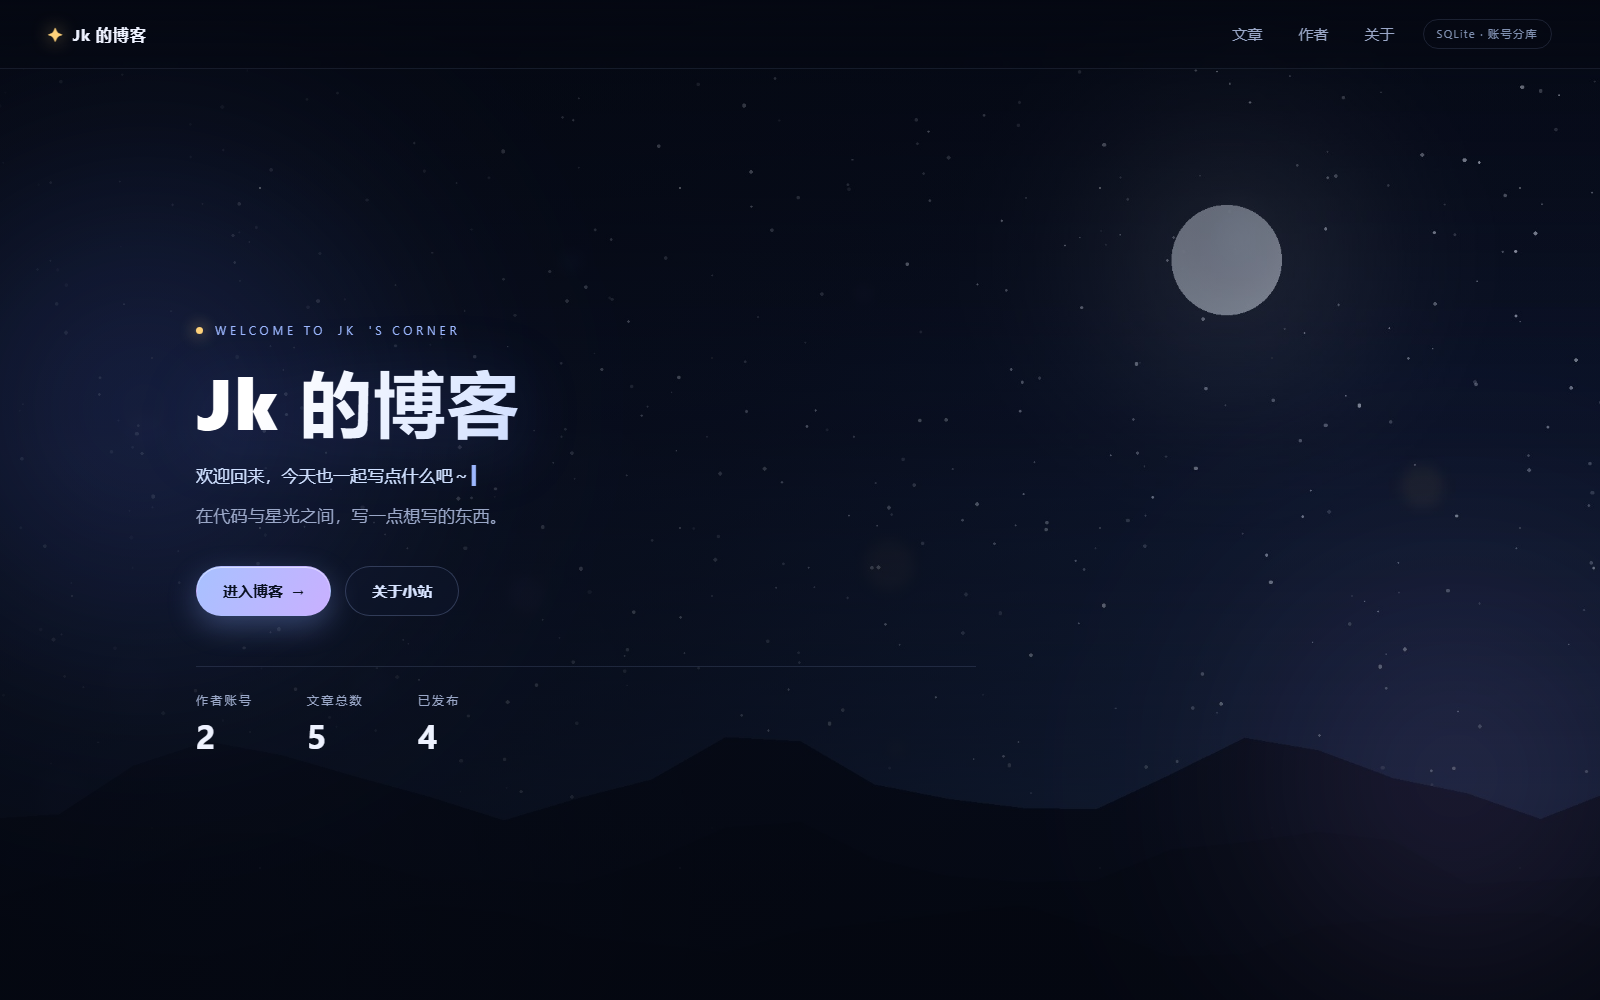
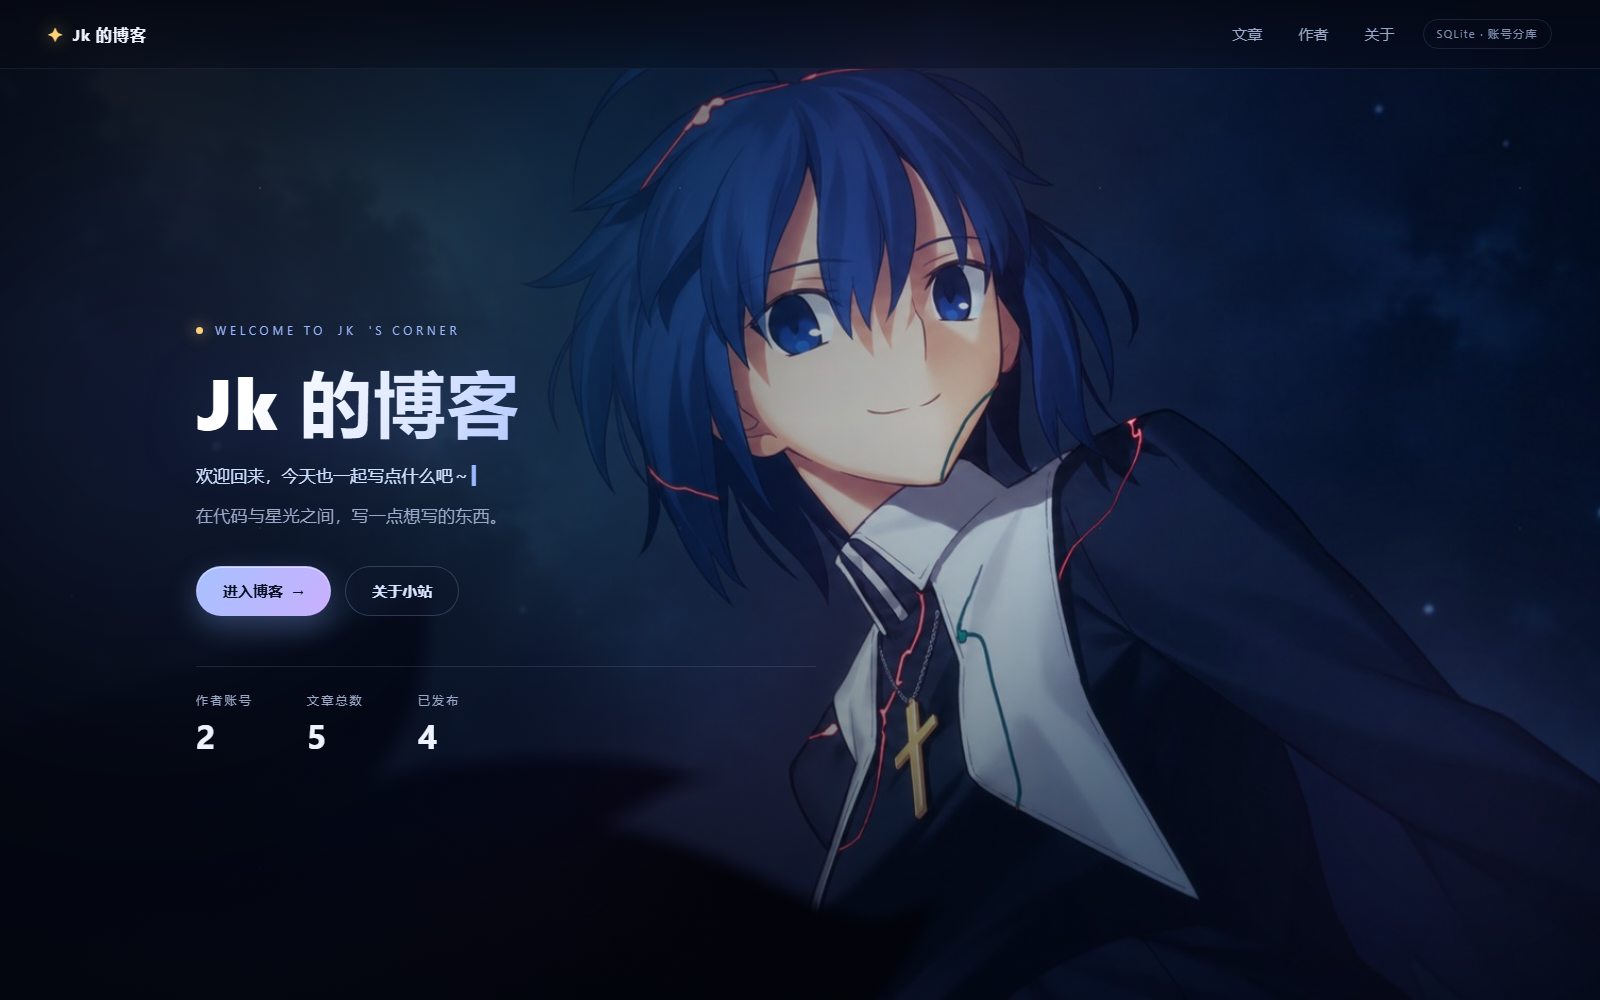
feat: 首页背景换成蓝发少女插画，新增手机竖版裁切并调整遮罩与排版

Changed region(s): [[0.1875, 0.031, 0.8125, 0.899], [0.9062, 0.279, 0.9375, 0.31], [0.9062, 0.217, 0.9375, 0.248]]

diff --git a/web/css/style.css b/web/css/style.css
@@ -121,20 +121,39 @@ img {
   inset: 0;
   background-color: #060a15;
   background-image:
-    linear-gradient(180deg, rgba(4, 7, 16, 0.42) 0%, rgba(4, 7, 16, 0.3) 38%, rgba(4, 7, 16, 0.82) 100%),
-    linear-gradient(112deg, rgba(4, 8, 18, 0.92) 0%, rgba(5, 9, 20, 0.55) 46%, rgba(5, 9, 20, 0.08) 76%),
+    linear-gradient(
+      90deg,
+      rgba(3, 6, 15, 0.94) 0%,
+      rgba(3, 6, 15, 0.86) 16%,
+      rgba(3, 6, 15, 0.56) 34%,
+      rgba(3, 6, 15, 0.22) 50%,
+      rgba(3, 6, 15, 0.04) 66%,
+      rgba(3, 6, 15, 0) 80%
+    ),
+    linear-gradient(180deg, rgba(3, 6, 15, 0.28) 0%, rgba(3, 6, 15, 0.08) 42%, rgba(3, 6, 15, 0.5) 100%),
     var(--hero-image);
   background-size: cover, cover, cover;
-  background-position: center, center, center;
+  background-position: center, center, left center;
   background-repeat: no-repeat;
 }
 
 @media (max-aspect-ratio: 4/5) {
   .scene-bg {
     background-image:
-      linear-gradient(180deg, rgba(4, 7, 16, 0.35) 0%, rgba(4, 7, 16, 0.28) 40%, rgba(4, 7, 16, 0.9) 100%),
-      linear-gradient(112deg, rgba(4, 8, 18, 0.78) 0%, rgba(5, 9, 20, 0.35) 60%, rgba(5, 9, 20, 0.1) 100%),
-      var(--hero-image);
+      linear-gradient(
+        180deg,
+        rgba(3, 6, 15, 0.05) 0%,
+        rgba(3, 6, 15, 0.12) 24%,
+        rgba(3, 6, 15, 0.4) 42%,
+        rgba(3, 6, 15, 0.78) 56%,
+        rgba(3, 6, 15, 0.93) 70%,
+        rgba(3, 6, 15, 0.98) 85%,
+        rgba(3, 6, 15, 1) 100%
+      ),
+      linear-gradient(90deg, rgba(3, 6, 15, 0.4) 0%, rgba(3, 6, 15, 0.05) 45%, rgba(3, 6, 15, 0.25) 100%),
+      url("/assets/hero-bg-mobile.jpg");
+    background-size: cover, cover, cover;
+    background-position: center, center, center;
   }
 }
 
@@ -153,7 +172,7 @@ img {
     640px 560px,
     380px 320px,
     560px 470px;
-  opacity: 0.5;
+  opacity: 0.22;
   animation: star-drift 150s linear infinite;
   -webkit-mask-image: linear-gradient(180deg, rgba(0, 0, 0, 0.95), transparent 88%);
   mask-image: linear-gradient(180deg, rgba(0, 0, 0, 0.95), transparent 88%);
@@ -163,7 +182,7 @@ img {
   position: absolute;
   border-radius: 50%;
   filter: blur(90px);
-  opacity: 0.45;
+  opacity: 0.28;
   mix-blend-mode: screen;
   pointer-events: none;
 }
@@ -352,7 +371,7 @@ img {
 
 .hero-copy {
   width: 100%;
-  max-width: 780px;
+  max-width: 620px;
 }
 
 .hero-copy > * {
@@ -427,7 +446,7 @@ img {
 }
 
 .hero-subtitle {
-  max-width: 34em;
+  max-width: 30em;
   margin: 6px 0 34px;
   color: var(--muted);
   font-size: clamp(0.98rem, 1.3vw, 1.08rem);
@@ -1295,8 +1314,10 @@ img {
 
 @media (max-width: 1020px) {
   .hero {
-    min-height: auto;
-    padding-top: clamp(32px, 6vh, 64px);
+    align-items: flex-end;
+    min-height: calc(100svh - 72px);
+    padding-top: clamp(24px, 4vh, 48px);
+    padding-bottom: clamp(28px, 5vh, 56px);
   }
 
   .hero-copy {
@@ -1334,6 +1355,9 @@ img {
   }
 
   .hero {
+    min-height: calc(100svh - 58px);
+    padding-top: 20px;
+    padding-bottom: clamp(24px, 5vh, 40px);
     padding-left: 18px;
     padding-right: 18px;
   }

diff --git a/web/index.html b/web/index.html
@@ -119,7 +119,7 @@
             <div class="about-item">
               <h3>背景图</h3>
               <p>
-                桌面用 <strong>2560 × 1440（16:9）</strong>，手机用 <strong>1080 × 1920（9:16）</strong>。现在先用一张星空占位图，替换同名文件就能生效。
+                桌面按 <strong>16:9</strong>、手机按 <strong>9:16</strong> 适配。当前背景是一张 1672 × 941 的插画，想在大屏上更清晰可以换成 2560 × 1440 的高清版本。
               </p>
             </div>
             <div class="about-item">

diff --git a/tools/make_placeholder_assets.py b/tools/make_placeholder_assets.py
@@ -1,11 +1,12 @@
 #!/usr/bin/env python3
-"""生成博客首页的占位背景图（之后可直接用正式图替换同名文件）。
+"""生成博客首页的**占位**背景图（不会覆盖正式背景）。
 
-输出：
-  web/assets/hero-bg.jpg          2560 x 1440 (16:9)   桌面背景
-  web/assets/hero-bg-mobile.jpg   1080 x 1920 (9:16)   手机竖屏背景
+输出到 web/assets/placeholders/：
+  hero-bg.placeholder.jpg          2560 x 1440 (16:9)   桌面背景占位
+  hero-bg-mobile.placeholder.jpg   1080 x 1920 (9:16)   手机竖屏背景占位
 
-说明：首页不使用看板娘立绘；如需立绘，请参考 docs/background-spec.md 里的可选规格。
+正式背景在 web/assets/hero-bg.jpg 与 web/assets/hero-bg-mobile.jpg，
+如需使用占位图，手动把文件复制/改名过去即可。
 
 依赖：Pillow
 用法：python tools/make_placeholder_assets.py
@@ -19,7 +20,7 @@ from pathlib import Path
 from PIL import Image, ImageDraw, ImageFilter
 
 ROOT = Path(__file__).resolve().parent.parent
-ASSETS = ROOT / "web" / "assets"
+ASSETS = ROOT / "web" / "assets" / "placeholders"
 
 NIGHT_TOP = (7, 11, 24)
 NIGHT_MID = (16, 26, 54)
@@ -232,8 +233,8 @@ def main():
         moon_radius_scale=0.055,
         star_count=650,
     )
-    desktop.save(ASSETS / "hero-bg.jpg", quality=86, optimize=True)
-    print("已生成 web/assets/hero-bg.jpg  (2560x1440, 16:9)")
+    desktop.save(ASSETS / "hero-bg.placeholder.jpg", quality=86, optimize=True)
+    print("已生成 web/assets/placeholders/hero-bg.placeholder.jpg  (2560x1440, 16:9)")
 
     mobile = make_background(
         (1080, 1920),
@@ -242,8 +243,8 @@ def main():
         moon_radius_scale=0.085,
         star_count=420,
     )
-    mobile.save(ASSETS / "hero-bg-mobile.jpg", quality=86, optimize=True)
-    print("已生成 web/assets/hero-bg-mobile.jpg  (1080x1920, 9:16)")
+    mobile.save(ASSETS / "hero-bg-mobile.placeholder.jpg", quality=86, optimize=True)
+    print("已生成 web/assets/placeholders/hero-bg-mobile.placeholder.jpg  (1080x1920, 9:16)")
 
 
 if __name__ == "__main__":

diff --git a/docs/background-spec.md b/docs/background-spec.md
@@ -8,12 +8,26 @@
 > | 手机竖屏背景 | **1080 × 1920** | **9:16** | JPG（或 WebP） | `web/assets/hero-bg-mobile.jpg` |
 > | 看板娘立绘（可选） | **1200 × 1600**（建议画 2400 × 3200 再缩） | **3:4** | 透明 PNG（或 WebP） | 当前未使用 |
 
+## 当前首页背景
+
+现在首页用的是一张蓝发少女插画（用户提供），已处理成两张：
+
+| 文件 | 实际尺寸 | 说明 |
+| --- | --- | --- |
+| `web/assets/hero-bg.jpg` | 1672 × 941（16:9） | 桌面背景，JPG quality 88，约 113KB |
+| `web/assets/hero-bg-mobile.jpg` | 1080 × 1920（9:16） | 从同一张图以人物脸部为中心裁切，JPG quality 86，约 157KB |
+
+- 源图分辨率 1672 × 941，在 1080p 屏幕上够用；在 2K/4K 屏幕上会被放大，**如果能拿到 2560 × 1440 或更高的原图，直接覆盖 `hero-bg.jpg` 效果更好**。
+- 桌面端背景用 `background-position: left center` 定位：人物会落在偏右位置，左侧文案区叠加深色渐变遮罩，避免文字压脸。
+- 手机端背景是按人物脸部居中的 9:16 裁切；竖屏下文字整体靠底部排列，脸部保持在屏幕上方可见区域。
+- 不再使用看板娘独立立绘；看板娘以文字问候的形式出现。
+
 ## 页面怎么用这两张背景图
 
-- 桌面背景铺满整个首屏：`background-size: cover; background-position: center;`
-  比例不完全一致也不会破版，**超出的部分会被裁掉**，所以「主体放中间」最安全。
+- 桌面背景铺满整个首屏：`background-size: cover; background-position: left center;`
+  比例不完全一致也不会破版，**超出的部分会被裁掉**，所以「主体放中间偏右」最安全。
 - 屏幕宽高比小于 4:5（手机竖屏）时，CSS 自动切换到 `hero-bg-mobile.jpg`。
-- 页面在背景上还叠了一层从左上到右下的深色渐变（保证文字可读性），所以背景整体可以**偏亮、偏繁复一点**，不用自己先把左侧压黑。
+- 页面在背景上叠了两层深色渐变：左侧一层横向遮罩保证文案可读，一层纵向描边压暗上下边缘；所以背景可以偏亮、偏繁复，不用自己先把左侧压黑。
 - 首页目前**不使用立绘**（已按需求移除 AI 生成的占位立绘），文字内容在左侧；以后要加立绘时，规格见下方「看板娘立绘」，并需要恢复 hero 右侧的立绘位。
 
 ## 桌面背景（hero-bg.jpg）
@@ -68,13 +82,13 @@
 
 ## 占位素材
 
-仓库里的两张背景图是用 `tools/make_placeholder_assets.py` 生成的（Python + Pillow），仅用于把页面撑起来：
+如果临时需要一张纯星空占位背景，可以运行：
 
 ```powershell
 npm run assets
 ```
 
-生成的图尺寸就是上面推荐的尺寸，可以直接拿来当构图参考；正式背景图替换同名文件即可，**不需要改代码**。
+它会用 Python + Pillow 在 `web/assets/placeholders/` 下生成两张占位图（**不会覆盖** `hero-bg.jpg` 等正式背景），需要时手动复制改名过去即可。
 
 ## 验收清单
 

diff --git a/README.md b/README.md
@@ -38,7 +38,7 @@ npm start
 ```powershell
 npm test          # 后端测试（node:test，9 个用例）
 npm run dev       # node --watch 模式
-npm run assets    # 重新生成占位背景图（需要 Python + Pillow）
+npm run assets    # 重新生成占位背景（输出到 web/assets/placeholders/，不会覆盖正式背景）
 ```
 
 环境变量：`PORT`、`HOST`、`BLOG_DATA_DIR`（数据目录，默认 `./data`）。
@@ -152,10 +152,10 @@ app.close();
 
 替换素材（保持同名即可生效）：
 
-| 文件 | 用途 | 规格 |
+| 文件 | 用途 | 说明 |
 | --- | --- | --- |
-| `web/assets/hero-bg.jpg` | 桌面背景 | 2560 × 1440（16:9） |
-| `web/assets/hero-bg-mobile.jpg` | 手机竖屏背景 | 1080 × 1920（9:16） |
+| `web/assets/hero-bg.jpg` | 桌面背景 | 当前为 1672 × 941（16:9）的插画；有更高清原图时建议换成 2560 × 1440 |
+| `web/assets/hero-bg-mobile.jpg` | 手机竖屏背景 | 1080 × 1920（9:16），由同一张插画裁切生成 |
 
 > 看板娘立绘当前**未使用**（已移除 AI 生成的占位立绘）。如果以后要加，参考 [docs/background-spec.md](docs/background-spec.md) 里保留的立绘规格，并恢复 hero 右侧的立绘位。
 
